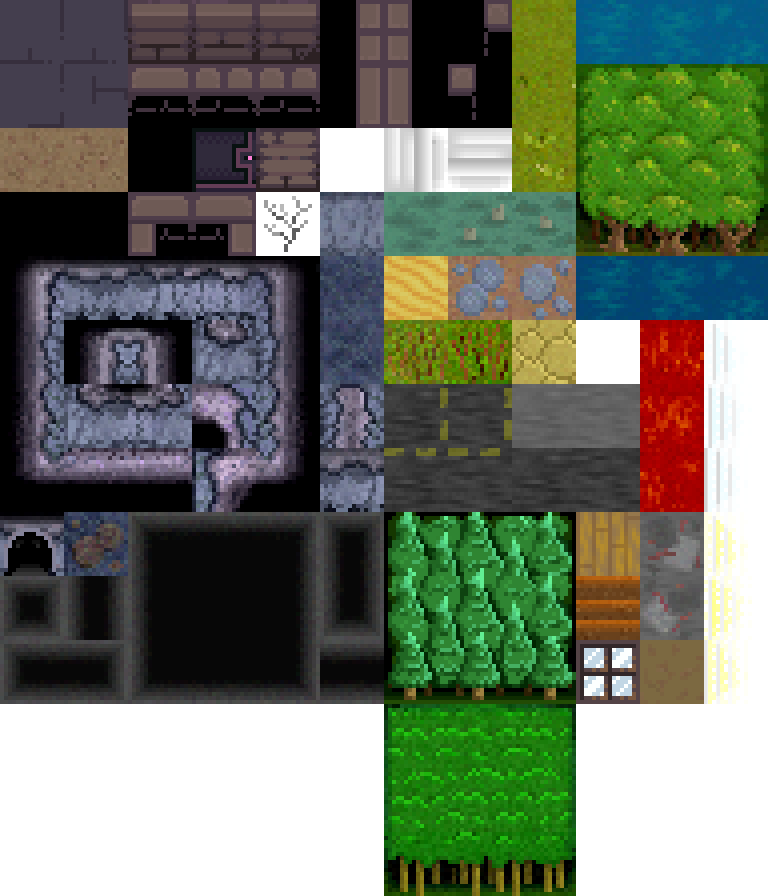
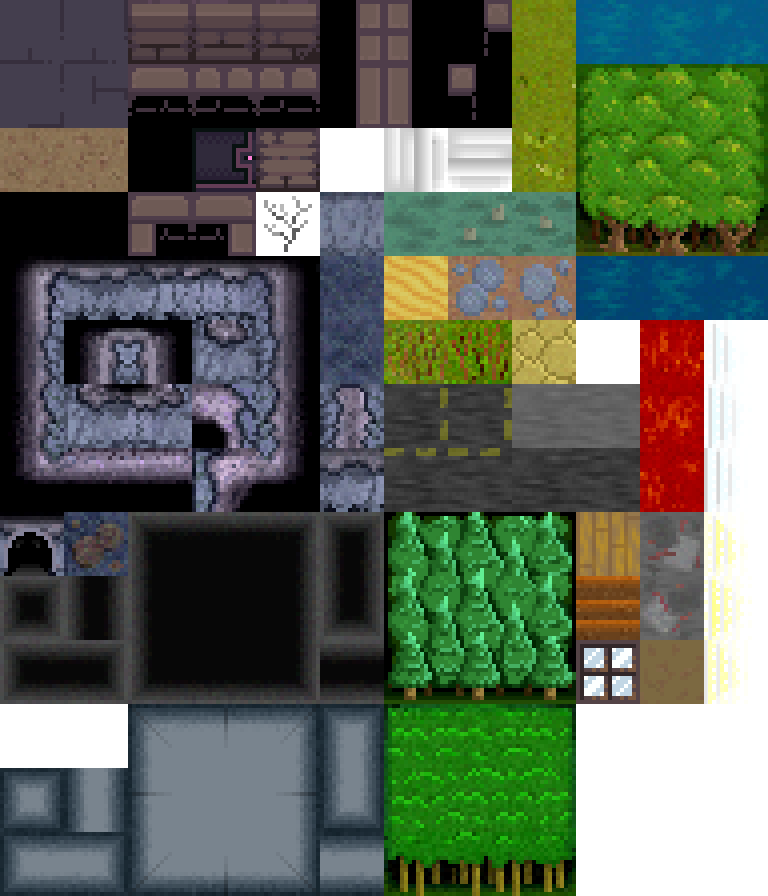
metal walls

Changed region(s): [[0.0, 0.7812, 0.5, 1.0]]

diff --git a/src/main/kotlin/world/gen/cartos/Carto.kt b/src/main/kotlin/world/gen/cartos/Carto.kt
@@ -42,10 +42,13 @@ abstract class Carto(
 
     protected val plantSpawns = plantSpawns()
 
-    init {
+    open val wallTerrain = Terrain.Type.TERRAIN_BRICKWALL
+    open val floorTerrain = Terrain.Type.TERRAIN_STONEFLOOR
+
+    fun clear() {
         for (x in x0 .. x1) {
             for (y in y0 .. y1) {
-                chunk.setTerrain(x, y, Terrain.Type.TERRAIN_BRICKWALL)
+                chunk.setTerrain(x, y, wallTerrain)
             }
         }
     }
@@ -104,17 +107,17 @@ abstract class Carto(
     // TODO: don't pass regionId here, compute it automatically in a stage
     // where we floodfill successively until all space is regions
     protected fun carve(x: Int, y: Int, regionId: Int,
-                        type: Terrain.Type = Terrain.Type.TERRAIN_STONEFLOOR) {
+                        type: Terrain.Type = floorTerrain) {
         setTerrain(x, y, type)
         setRegionAt(x, y, regionId)
     }
     protected fun carve(xy: XY, regionId: Int,
-                        type: Terrain.Type = Terrain.Type.TERRAIN_STONEFLOOR) {
+                        type: Terrain.Type = floorTerrain) {
         carve(xy.x, xy.y, regionId, type)
     }
 
     protected fun carveRoom(room: Rect, regionId: Int,
-                            type: Terrain.Type = Terrain.Type.TERRAIN_STONEFLOOR,
+                            type: Terrain.Type = floorTerrain,
                             skipCorners: Boolean = false, skipTerrain: Terrain.Type? = null) {
         for (x in room.x0..room.x1) {
             for (y in room.y0..room.y1) {
@@ -272,7 +275,7 @@ abstract class Carto(
         return connections
     }
 
-    protected fun removeDeadEnds(type: Terrain.Type = Terrain.Type.TERRAIN_BRICKWALL): Boolean {
+    protected fun removeDeadEnds(type: Terrain.Type = wallTerrain): Boolean {
         var removed = false
         forEachCell { x, y ->
             if (!isRock(x, y)) {

diff --git a/src/main/kotlin/world/gen/cartos/LevelCarto.kt b/src/main/kotlin/world/gen/cartos/LevelCarto.kt
@@ -26,9 +26,13 @@ class LevelCarto(
     val building: Building
 ) : Carto(x0, y0, x1, y1, level.chunk!!, level) {
 
+    override val wallTerrain = Terrain.Type.TERRAIN_METALWALL
+
     fun carveLevel(
         worldDest: XY
     ) {
+        clear()
+
         val rooms = ArrayList<Rect>()
 
         val roomTries = Random.nextInt(30, 500)
@@ -63,7 +67,7 @@ class LevelCarto(
         for (x in x0+1 until x1) {
             for (y in y0+1 until y1) {
                 if (isRock(x, y)) {
-                    if (neighborCount(x, y, Terrain.Type.TERRAIN_STONEFLOOR) == 0) {
+                    if (neighborCount(x, y, floorTerrain) == 0) {
                         growMaze(x, y, Dice.float(0.1f, 0.6f), nextRegion)
                         nextRegion++
                     }
@@ -75,7 +79,7 @@ class LevelCarto(
 
         var deadEnds = true
         while (deadEnds) {
-            deadEnds = removeDeadEnds(Terrain.Type.TERRAIN_BRICKWALL)
+            deadEnds = removeDeadEnds(wallTerrain)
         }
 
         val door = addWorldPortal(building, worldDest, Terrain.Type.TERRAIN_PORTAL_DOOR, "The door leads outside to the wilderness.\nExit the building?")

diff --git a/src/main/kotlin/render/tilesets/TerrainTileSet.kt b/src/main/kotlin/render/tilesets/TerrainTileSet.kt
@@ -197,6 +197,25 @@ fun TerrainTileSet() =
             add(ChasmTile.Slot.HORIZONTAL, 1f, 5, 10)
         })
 
+        setTile(Glyph.METAL_WALL, ChasmTile(this, Glyph.METAL_WALL).apply {
+            add(ChasmTile.Slot.SOLO, 1f, 0, 12)
+            add(ChasmTile.Slot.LEFTCAP, 1f, 0, 13)
+            add(ChasmTile.Slot.RIGHTCAP, 1f, 1, 13)
+            add(ChasmTile.Slot.TOPLEFT, 1f, 2, 11)
+            add(ChasmTile.Slot.TOP, 1f, 3, 11)
+            add(ChasmTile.Slot.TOPRIGHT, 1f, 4, 11)
+            add(ChasmTile.Slot.TOPCAP, 1f, 5, 11)
+            add(ChasmTile.Slot.LEFT, 1f, 2, 12)
+            add(ChasmTile.Slot.MIDDLE, 1f, 3, 12)
+            add(ChasmTile.Slot.RIGHT, 1f, 4, 12)
+            add(ChasmTile.Slot.BOTTOMCAP, 1f, 5, 12)
+            add(ChasmTile.Slot.BOTTOMLEFT, 1f, 2, 13)
+            add(ChasmTile.Slot.BOTTOM, 1f, 3, 13)
+            add(ChasmTile.Slot.BOTTOMRIGHT, 1f, 4, 13)
+            add(ChasmTile.Slot.VERTICAL, 1f, 1, 12)
+            add(ChasmTile.Slot.HORIZONTAL, 1f, 5, 13)
+        })
+
         setTile(Glyph.WALL_DAMAGE, SimpleTile(this, 4, 3))
 
         setTile(Glyph.SHALLOW_WATER, WaterTile(this).apply {

diff --git a/src/main/kotlin/things/MeleeWeapon.kt b/src/main/kotlin/things/MeleeWeapon.kt
@@ -1,6 +1,7 @@
 package things
 
 import actors.Actor
+import actors.stats.Heart
 import actors.stats.Stat
 import actors.stats.skills.Dig
 import actors.stats.skills.Fight
@@ -101,7 +102,7 @@ class Pickaxe : MeleeWeapon() {
 @Serializable
 class Sunsword : MeleeWeapon(), LightSource {
     companion object {
-        val glyphTransform = GlyphTransform(Glyph.AXE, 0.0f, -0.1f, false)
+        val glyphTransform = GlyphTransform(Glyph.SUNSWORD_LIT, 0.0f, -0.1f, false)
         val lightColor = LightColor(0.1f, 0.3f, 0.3f)
     }
     override val tag = Tag.THING_SUNSWORD
@@ -109,6 +110,9 @@ class Sunsword : MeleeWeapon(), LightSource {
     override fun glyphTransform() = glyphTransform
     override fun name() = "sunsword"
     override fun description() = "The legendary Sunsword holds the power of sunlight.  Weirdly effective against robots."
+    override fun statEffects() = mutableMapOf<Stat.Tag, Float>().apply {
+        this[Heart.tag] = 1f
+    }
     override fun light() = if (equipped) lightColor else null
     override fun onEquip(actor: Actor) {
         actor.level?.addLightSource(actor.xy.x, actor.xy.y, actor)

diff --git a/src/main/kotlin/world/terrains/Terrain.kt b/src/main/kotlin/world/terrains/Terrain.kt
@@ -33,6 +33,7 @@ sealed class Terrain(
             Type.TERRAIN_BRICKWALL -> BrickWall
             Type.TERRAIN_CAVEWALL -> CaveWall
             Type.TERRAIN_WOODWALL -> WoodWall
+            Type.TERRAIN_METALWALL -> MetalWall
             Type.TERRAIN_TEMPERATE_FORESTWALL -> TemperateForestWall
             Type.TERRAIN_PINE_FORESTWALL -> PineForestWall
             Type.TERRAIN_TROPICAL_FORESTWALL -> TropicalForestWall
@@ -88,6 +89,7 @@ sealed class Terrain(
         TERRAIN_BRICKWALL,
         TERRAIN_CAVEWALL,
         TERRAIN_WOODWALL,
+        TERRAIN_METALWALL,
         TERRAIN_WINDOWWALL,
         TERRAIN_TEMPERATE_FORESTWALL,
         TERRAIN_PINE_FORESTWALL,

diff --git a/src/main/kotlin/world/terrains/Walls.kt b/src/main/kotlin/world/terrains/Walls.kt
@@ -83,6 +83,13 @@ object BrickWall : Wall(Type.TERRAIN_BRICKWALL, Glyph.BRICK_WALL, 3f) {
     override fun trailsOverwrite() = false
 }
 
+object MetalWall : Wall(Type.TERRAIN_METALWALL, Glyph.METAL_WALL, 10f) {
+    override fun name() = "metal wall"
+    override fun bumpMsg() = "You bump into a smooth metal wall."
+    override fun isDiggable() = false
+    override fun trailsOverwrite() = false
+}
+
 object CaveWall : Wall(Type.TERRAIN_BRICKWALL, Glyph.CLIFF_WALL, 4f) {
     override fun name() = "rock face"
     override fun bumpMsg() = "You bump into a rock face."

diff --git a/src/main/kotlin/world/gen/cartos/CavernCarto.kt b/src/main/kotlin/world/gen/cartos/CavernCarto.kt
@@ -27,6 +27,9 @@ class CavernCarto(
 
     lateinit var distanceMap: DistanceMap
 
+    override val wallTerrain = TERRAIN_CAVEWALL
+    override val floorTerrain = TERRAIN_CAVEFLOOR
+
     fun carveLevel(
         worldDest: XY
     ) {

diff --git a/src/main/kotlin/render/tilesets/Glyph.kt b/src/main/kotlin/render/tilesets/Glyph.kt
@@ -33,6 +33,7 @@ enum class Glyph {
     WOOD_FLOOR,
     RUBBLE,
     WOOD_WALL,
+    METAL_WALL,
     WINDOW,
     TRAIL,
 
